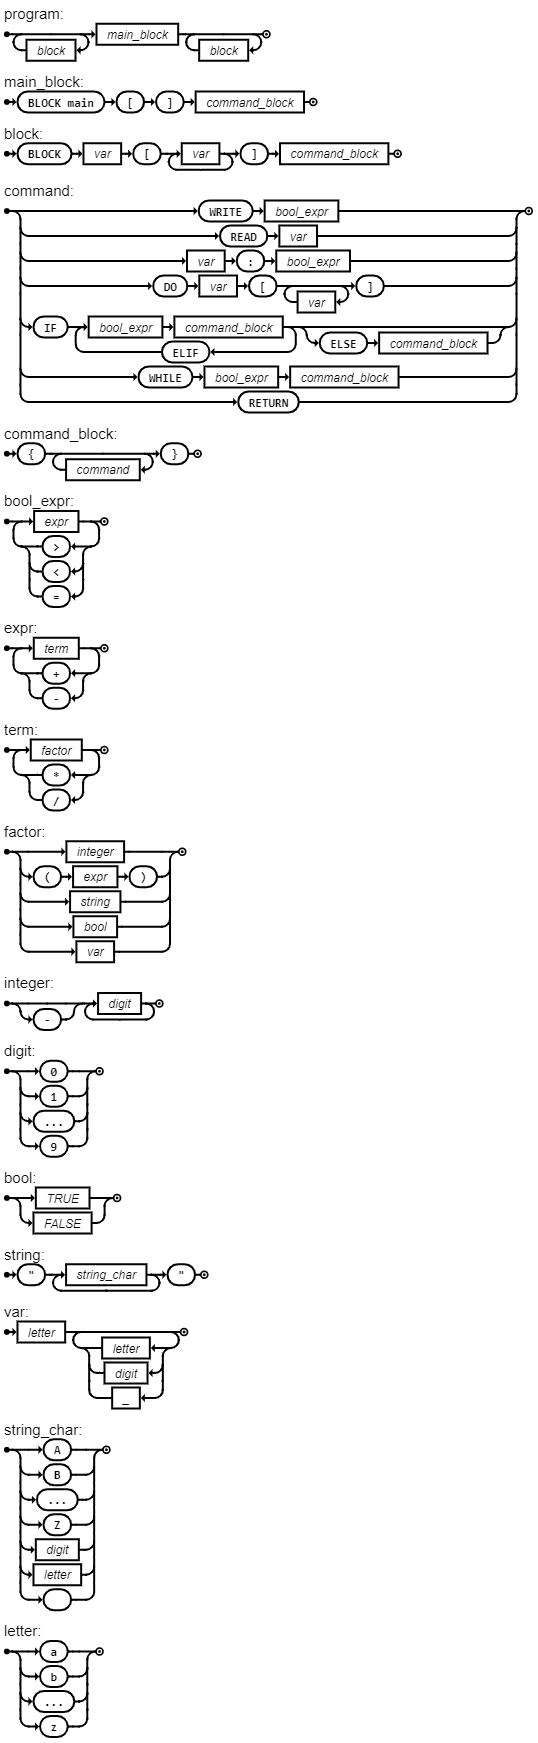
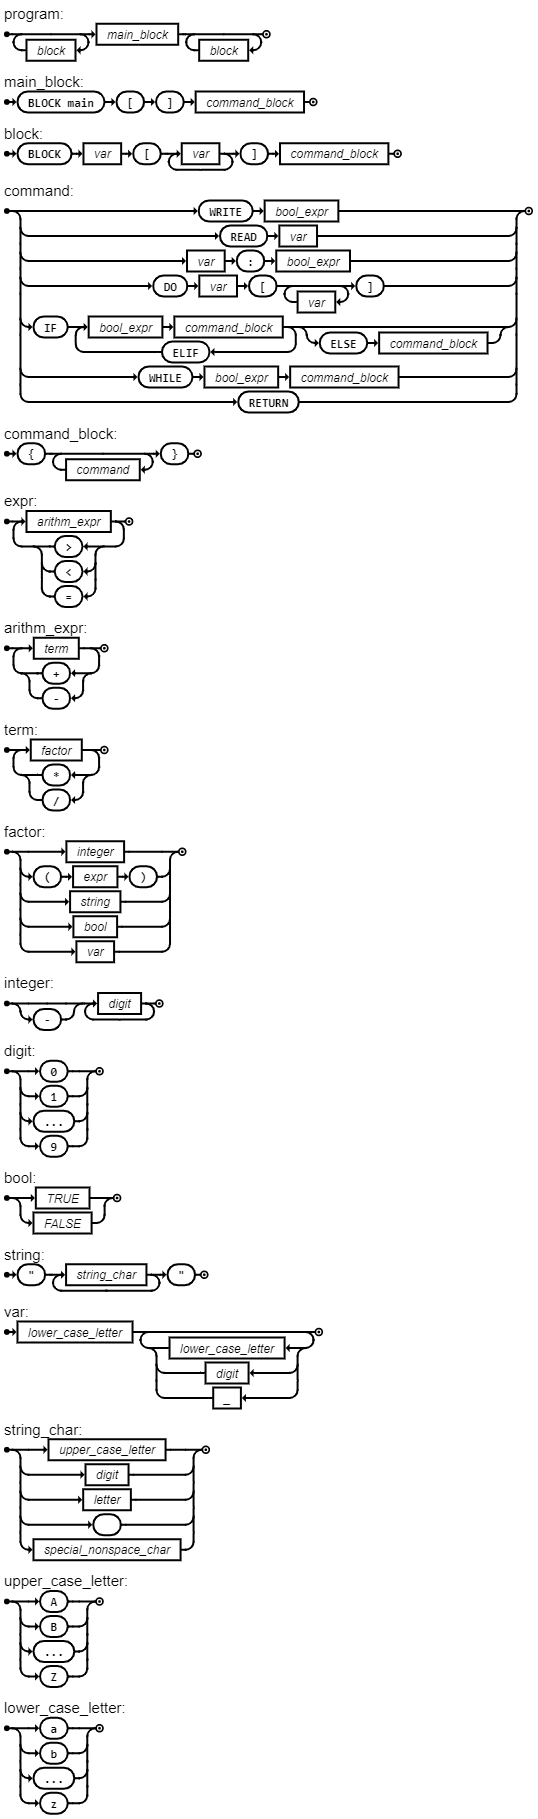
ebnf update

Changed region(s): [[0.0, 0.0, 1.0, 1.0]]

diff --git a/Lexer.py b/Lexer.py
@@ -74,23 +74,6 @@ class Lexer(object):
         t.lexer.begin('INITIAL')
         return t
 
-    # C or C++ comment (ignore)
-    def t_string_comment(self, t):
-        r'(/\*(.|\n)*?\*/)|(//.*)'
-        pass
-
-    # C string
-    def t_string_string(self, t):
-        r'([^\\\n]|(\\.))+?'
-
-    # C character literal
-    def t_string_char(self, t):
-        r'\'([^\\\n]|(\\.))*?\''
-
-    # Any sequence of non-whitespace characters (not braces, strings)
-    def t_string_nonspace(self, t):
-        r'[^\s\{\}\']+'
-
     # Ignored characters (whitespace)
     t_string_ignore = "\t\n"
 

diff --git a/README.md b/README.md
@@ -10,9 +10,9 @@ command = "WRITE", bool_expr|"READ", var|var, ":", bool_expr| "DO", var, "[", { 
 
 command_block = "{", {command}, "}";
 
-bool_expr = expr, { ( '>' | '<'| '=') , expr };
+expr = arithm_expr, { ( '>' | '<'| '=') , arithm_expr };
 
-expr = term, { ( '+' | '-' ) , term };
+arithm_expr = term, { ( '+' | '-' ) , term };
 
 term = { factor, ( '*' | '/' ) }, factor;
 
@@ -26,11 +26,14 @@ bool =  TRUE|FALSE;
 
 string =  '"', string_char, { string_char }, '"';
 
-var = letter, { letter|digit|_ };
+var = lower_case_letter, { lower_case_letter|digit|_ };
 
-string_char = 'A' | 'B' | '...' | 'Z'| digit | letter|" ";
+string_char= upper_case_letter| digit | letter|" "| special_nonspace_char;
 
-letter = 'a' | 'b' | '...' | 'z'; 
+upper_case_letter = 'A' | 'B' | '...' | 'Z';
+
+lower_case_letter = 'a' | 'b' | '...' | 'z';
+ 
 
 ![EBNF syntax](ebnf.png)
   
